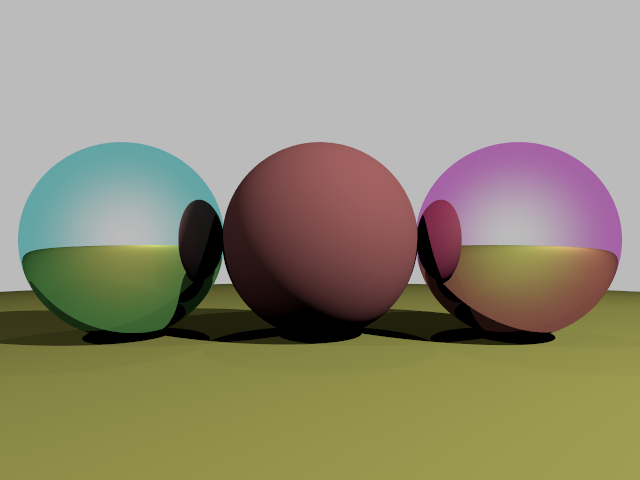
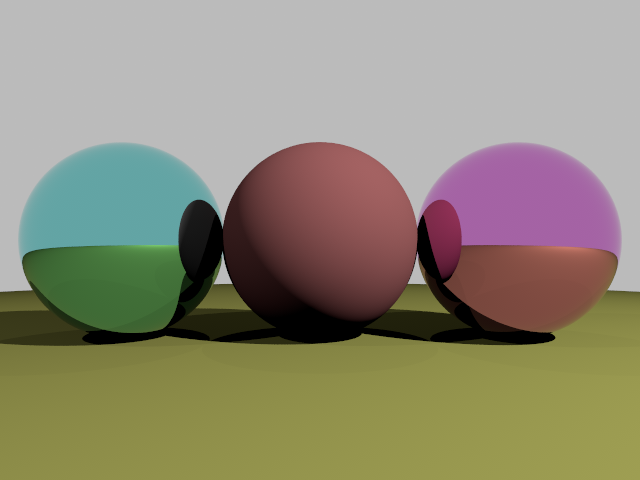
HW3 handout update

diff --git a/handouts/homework3.tex b/handouts/homework3.tex
@@ -119,7 +119,7 @@ Let's use a scene from Homework 1 to test your result:
 ./torrey -hw 3_3 ../scenes/hw1_spheres/scene1.xml
 \end{lstlisting}
 
-You should see something like Figure~\ref{fig:hw_3_3_fresnel}.
+You should see something like Figure~\ref{fig:hw_3_3_fresnel}. Notice the whitening towards the grazing angle.
 
 \begin{figure}[ht]
     \centering
